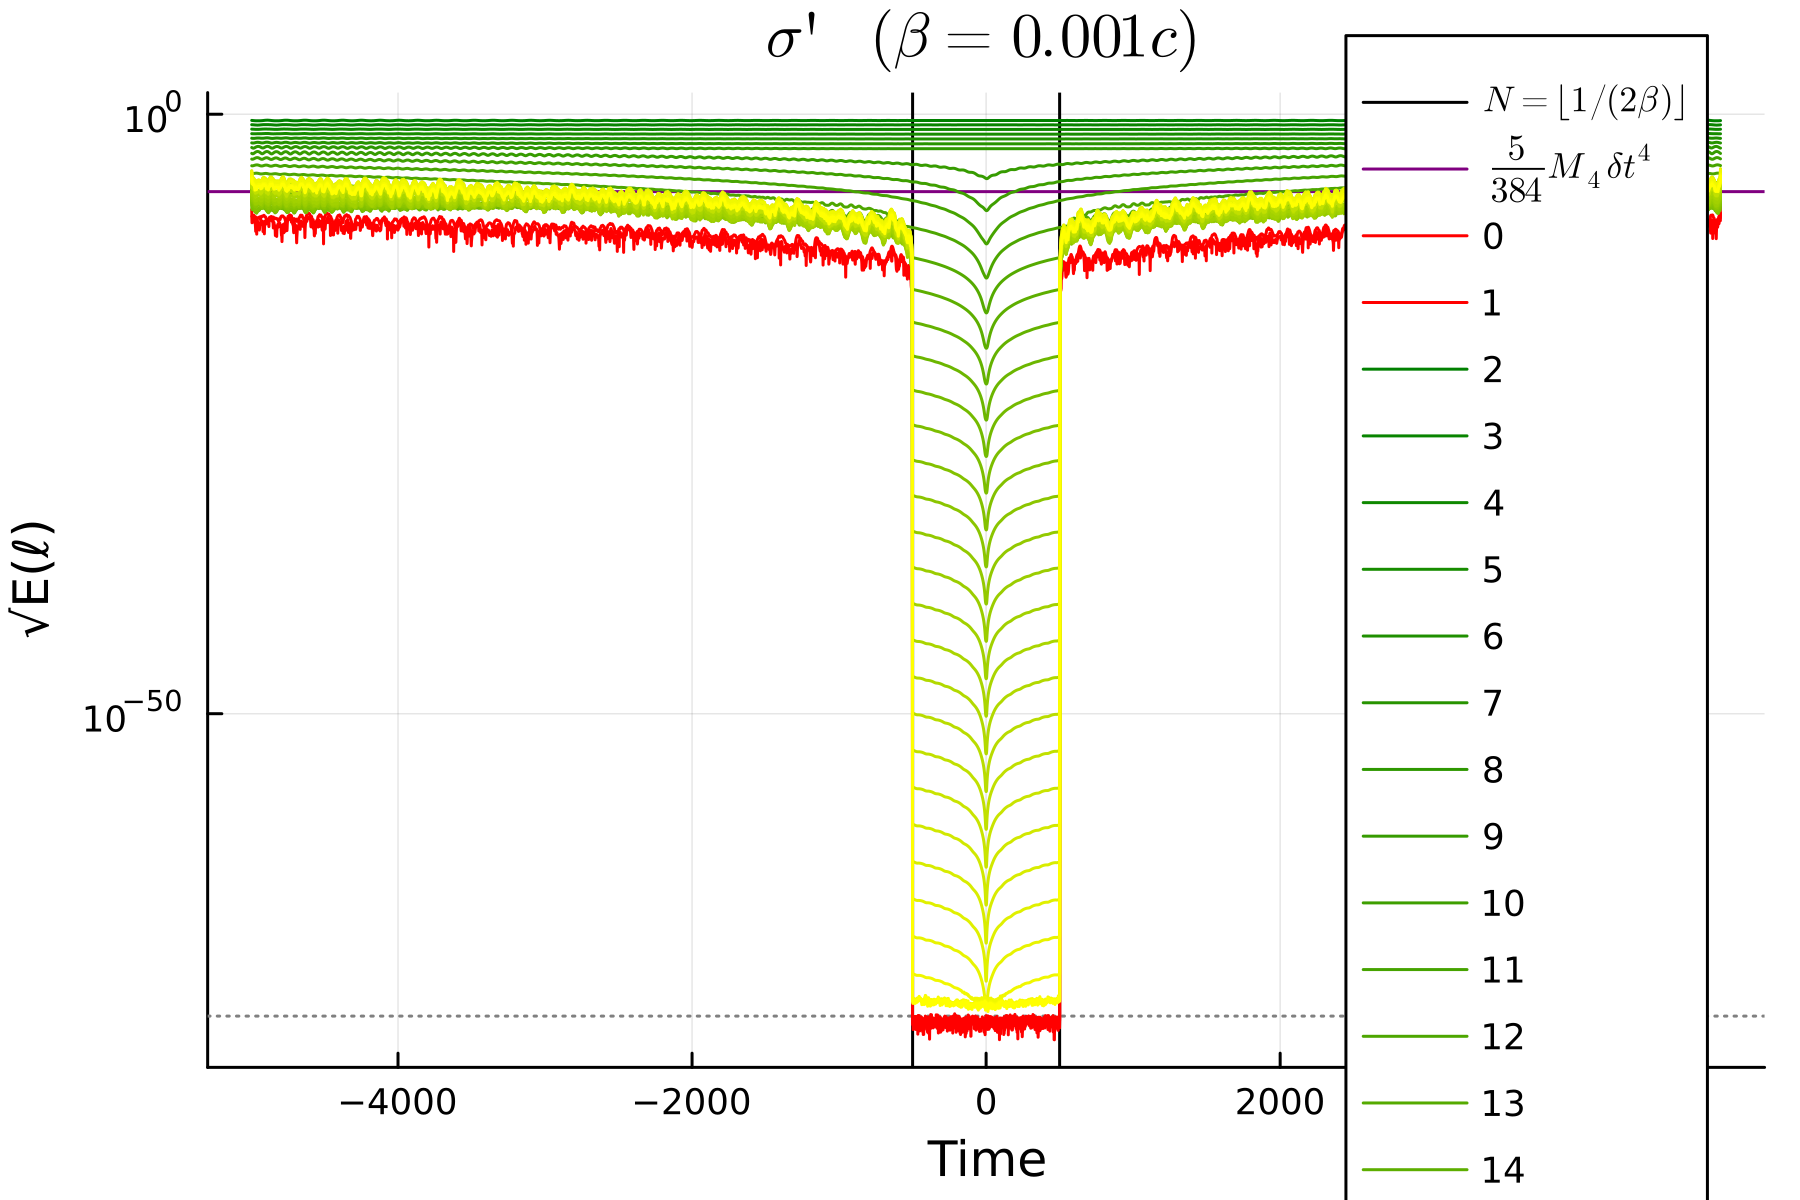
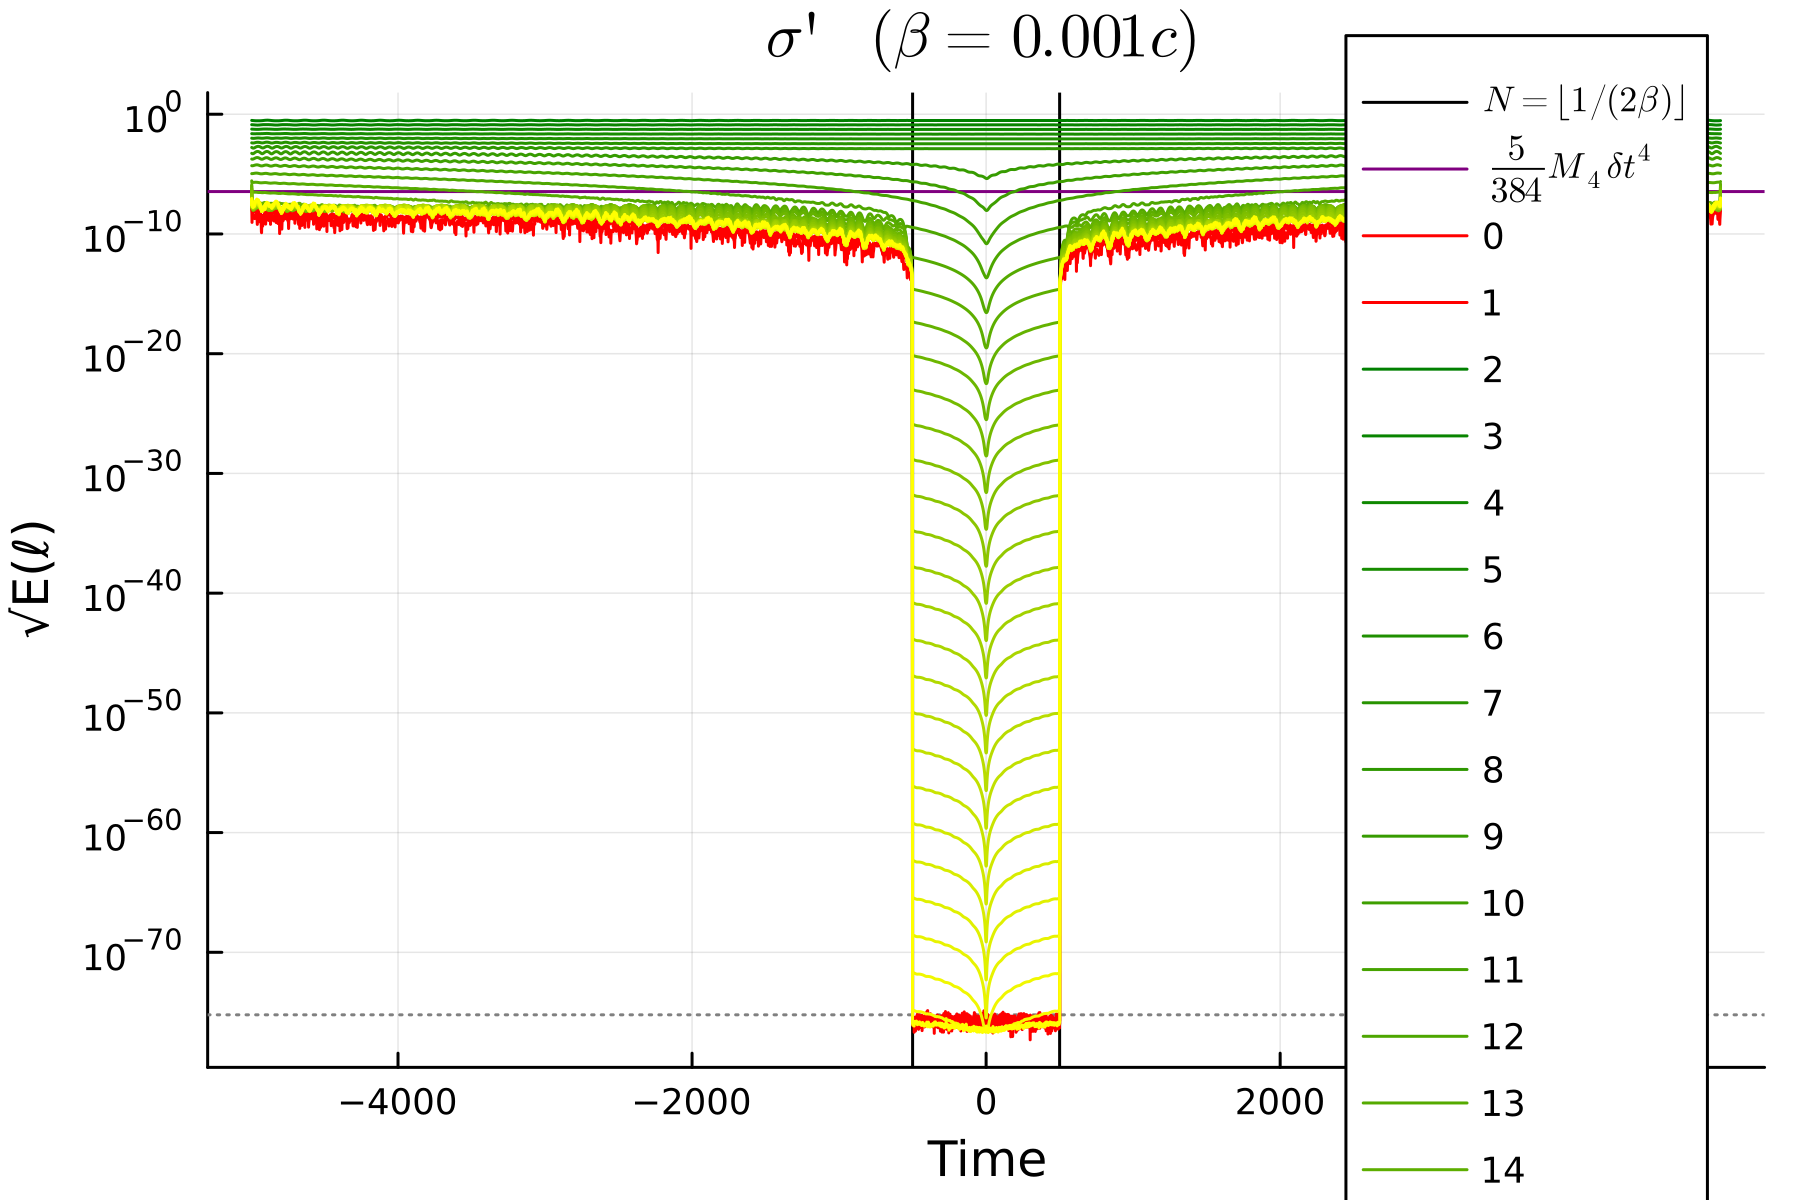
Add Double64 case and update some numbers for v1.0

diff --git a/docs/src/40-Details/05-spline_errors.md b/docs/src/40-Details/05-spline_errors.md
@@ -72,10 +72,11 @@ Once the kinks appear, the high-``ℓ`` modes no longer converge to
 roundoff, but stop at a floor comparable to the pointwise error of the
 spline, which for a cubic spline is at most ``(5/384) M₄ (δt)^4``
 [HallMeyer_1976](@cite).[^ends]  This floor can't be beaten by raising
-``ℓ_\text{max}'`` or even by raising the precision of the number type
-used in the calculation; it behaves like the persistent error of the
-Gibbs phenomenon [GottliebShu_1997](@cite).  Using higher-order
-splines lowers the floor as ``Mₙ(δt)^n``, but convergence requires
+the precision of the number type used in the calculation, and raising
+``ℓ_\text{max}'`` lowers it only slowly; it behaves like the
+persistent error of the Gibbs phenomenon [GottliebShu_1997](@cite).
+Using higher-order splines lowers the floor as ``Mₙ(δt)^n``, but
+convergence requires
 ``ω_\text{max}\,δ t < 1`` (all frequencies sampled above Nyquist), and
 for numerical-relativity waveforms the effective upper frequency is
 close to Nyquist, limiting practical improvement.
@@ -139,18 +140,15 @@ roughly constant in time and converge exponentially with increasing
 ``ℓ``, as expected.  Modes with ``ℓ > 8`` converge very quickly to
 machine precision at ``t=0,`` but increase in both directions from
 there, roughly linearly with time.  Again, this is the expected
-analytical behavior.  The modes with ``ℓ ≳ 13`` are initially below
+analytical behavior.  The modes with ``ℓ ≥ 14`` are initially at about
+``5 × 10^{-16}``, significantly below their expected error bound of
 ``ℓₘₐₓ ϵ`` (where ``ϵ ≈ 10^{-16}`` is machine precision), but beyond
-``N_\text{good} = ⌊ 1/(2β) ⌋`` they immediately jump up to the
-resolved ``ℓ=12`` mode, until they reach a plateau.  By ``|t| ≈ 4000``
-the noise is oscillating around the expected plateau of ``3.5 ×
-10^{-7}`` given by the cubic spline's pointwise error bound.
-
-The horizontal line in each plot marks that bound.  The plateau does
-not fall as ``ℓ_\text{max}'`` grows, as a power-law floor in
-``ℓ_\text{max}'`` would: a run at ``ℓ_\text{max}' = 24`` in `Double64`
-precision has a higher noise plateau in its top modes than the run
-shown here, not a lower one.
+``N_\text{good} = ⌊ 1/(2β) ⌋`` they immediately jump up past the
+resolved ``ℓ=13`` mode, and keep rising until they reach a plateau.
+By ``|t| ≈ 3000`` the noise is oscillating around ``10^{-7}``.  This
+is somewhat below the cubic spline's pointwise error bound of ``3.5 ×
+10^{-7}`` — in line with our expectations for an upper bound.  The
+horizontal line in each plot marks that bound.
 
 Note that the ``ℓ=0`` and ``1`` modes shown in red would analytically
 be zero, but are retained for diagnostic purposes.  These are the
@@ -162,19 +160,76 @@ limitation.
 
 ![Plot showing converging modes until reaching the spline plateau](spline_errors_Float64.png)
 
-One very important point is that this structure is the same regardless
-of the precision of the numbers being used.  We can use Julia's
-built-in extended-precision number type
-[`BigFloat`](https://docs.julialang.org/en/v1/manual/integers-and-floating-point-numbers/#Arbitrary-Precision-Arithmetic),
-which have ``ϵ ≈ 10^{-77}``.  We also have to extend to ``ℓₘₐₓ = 35``
-to obtain full convergence to this new ``ℓₘₐₓ ϵ``.  As seen in the
-plot below, near ``t=0``, the modes do indeed converge nicely all the
-way down to nearly that precision.  However, exactly at the expected
-distance from ``t=0``, the modes again jump up to a plateau of the
-same size as before: by ``t ≈ 4000`` the top modes reach about ``2 ×
-10^{-6}``, within an order of magnitude of the same bound.  There is
-no improvement in the plateau level, despite the much higher
-precision, because the plateau is determined by the spline
-interpolation error, which is independent of the numerical precision.
+Now, it is in any good researcher's nature to push back, and ask
+questions about easy ways to get around this limitation.  The obvious
+first things that might come to mind for the skeptic are typically
 
-![Extended-precision version of the plot above, converging to 1e-72 near t=0, but still rising to the same plateau as above away from t=0](spline_errors_BigFloat.png)
+  1. Reduce the time step ``δt``.
+  2. Increase ``ℓ_\text{max}'``.
+  3. Use higher-precision numbers.
+
+Reducing the time step can indeed help, though it is not always
+possible to reduce the time step — as, for example, when the waveform
+comes from a numerical simulation.  Moreover, it only helps relatively
+slowly; even a factor of 2 reduction in ``δt`` can be very expensive
+to obtain, but will only reduce the error by a factor of 16 — which is
+still a relatively large number, and will not reasonably reduce the
+error anywhere close to the truncation level seen near ``t=0``.
+
+Increasing ``ℓ_\text{max}'`` helps, but only slowly.  For ``3000 < |t|
+< 4800``, the top modes of the plateau sit at about ``10^{-7}`` with
+``ℓ_\text{max}' = 16``, ``5 × 10^{-8}`` with ``ℓ_\text{max}' = 24``,
+and ``8 × 10^{-9}`` with ``ℓ_\text{max}' = 35``.  Part of that
+improvement comes simply from no longer folding the unresolved higher
+modes onto the top modes, which are always slightly raised by that
+pile-up.  Within a single run, the modes decrease with ``ℓ`` only up
+to a point, and then level off into a nearly flat floor, rather than
+continuing to fall as the ``E(ℓ) ∼ ℓ^{-8}`` tail would.  With
+``ℓ_\text{max}' = 35``, that floor is at about ``10^{-9}`` for ``1500 <
+|t| < 3000`` and about ``7 × 10^{-9}`` for ``3000 < |t| < 4800`` —
+still seven or eight orders of magnitude above the roundoff level of
+`Float64`.
+
+Finally, *the structure of these spline-induced errors is the same
+regardless of the precision of the numbers being used*.  Julia makes
+it easy to use higher-precision numbers, so we can test this with two
+different precisions: the [`Double64`](@extref DoubleFloats
+:std:label:`Double64,-Double32,-Double16`) type which has ``ϵ ≈
+10^{-32}``, and the arbitrary-precision [`BigFloat`](@extref Julia
+Arbitrary-Precision-Arithmetic) type which (by default) has ``ϵ ≈
+10^{-77}``.  The results are shown in the plots below.  In both cases,
+we have to increase ``ℓ_\text{max}'`` to obtain full convergence to
+the respective ``ℓ_\text{max}' ϵ``: to ``ℓ_\text{max}' = 24`` for
+`Double64`, and to ``ℓ_\text{max}' = 35`` for `BigFloat`.  Near
+``t=0``, the modes do indeed converge nicely, down to about
+``10^{-31}`` and ``10^{-75}``, respectively.  However, exactly at the
+expected distance from ``t=0``, the modes again jump up to a plateau.
+That plateau is lower than in the plot above, but only because of the
+higher ``ℓ_\text{max}'``: a `Float64` run at the same
+``ℓ_\text{max}'`` gives the same plateau as the `Double64` or
+`BigFloat` run, mode for mode, to two significant figures.  The
+plateau is determined by the spline interpolation error and the band
+limit, and not at all by the numerical precision.
+
+The last plot is truly remarkable.  It shows that even with *75 orders
+of magnitude of precision*, we still have just 7 or so digits of
+accuracy throughout most of the waveform.  It shows that even with
+much higher ``ℓ_\text{max}'``, the modes still pile up right under the
+plateau at the same level.  And it shows that the transition between
+convergence to machine precision and convergence to the plateau is at
+*exactly* the predicted time, independent of time step, band limit, or
+numerical precision.
+
+!!! tip "Main takeaway"
+    It is worth repeating that — assuming we are using cubic splines —
+    the plateau is only weakly dependent on the time step, and is
+    *entirely independent of the numerical precision and the band
+    limit.*  The main thing we buy by increasing the precision or band
+    limit is that we can resolve the modes down to roughly machine
+    precision near ``t=0``.  And even this benefit disappears whenever
+    we have a nontrivial supertranslation (other than a pure time
+    offset).
+
+![Higher-precision version of the plot above, converging to about 1e-31 near t=0, but still rising to a plateau away from t=0](spline_errors_Double64.png)
+
+![Extended-precision version of the plot above, converging to about 1e-76 near t=0, but still rising to a plateau away from t=0](spline_errors_BigFloat.png)
